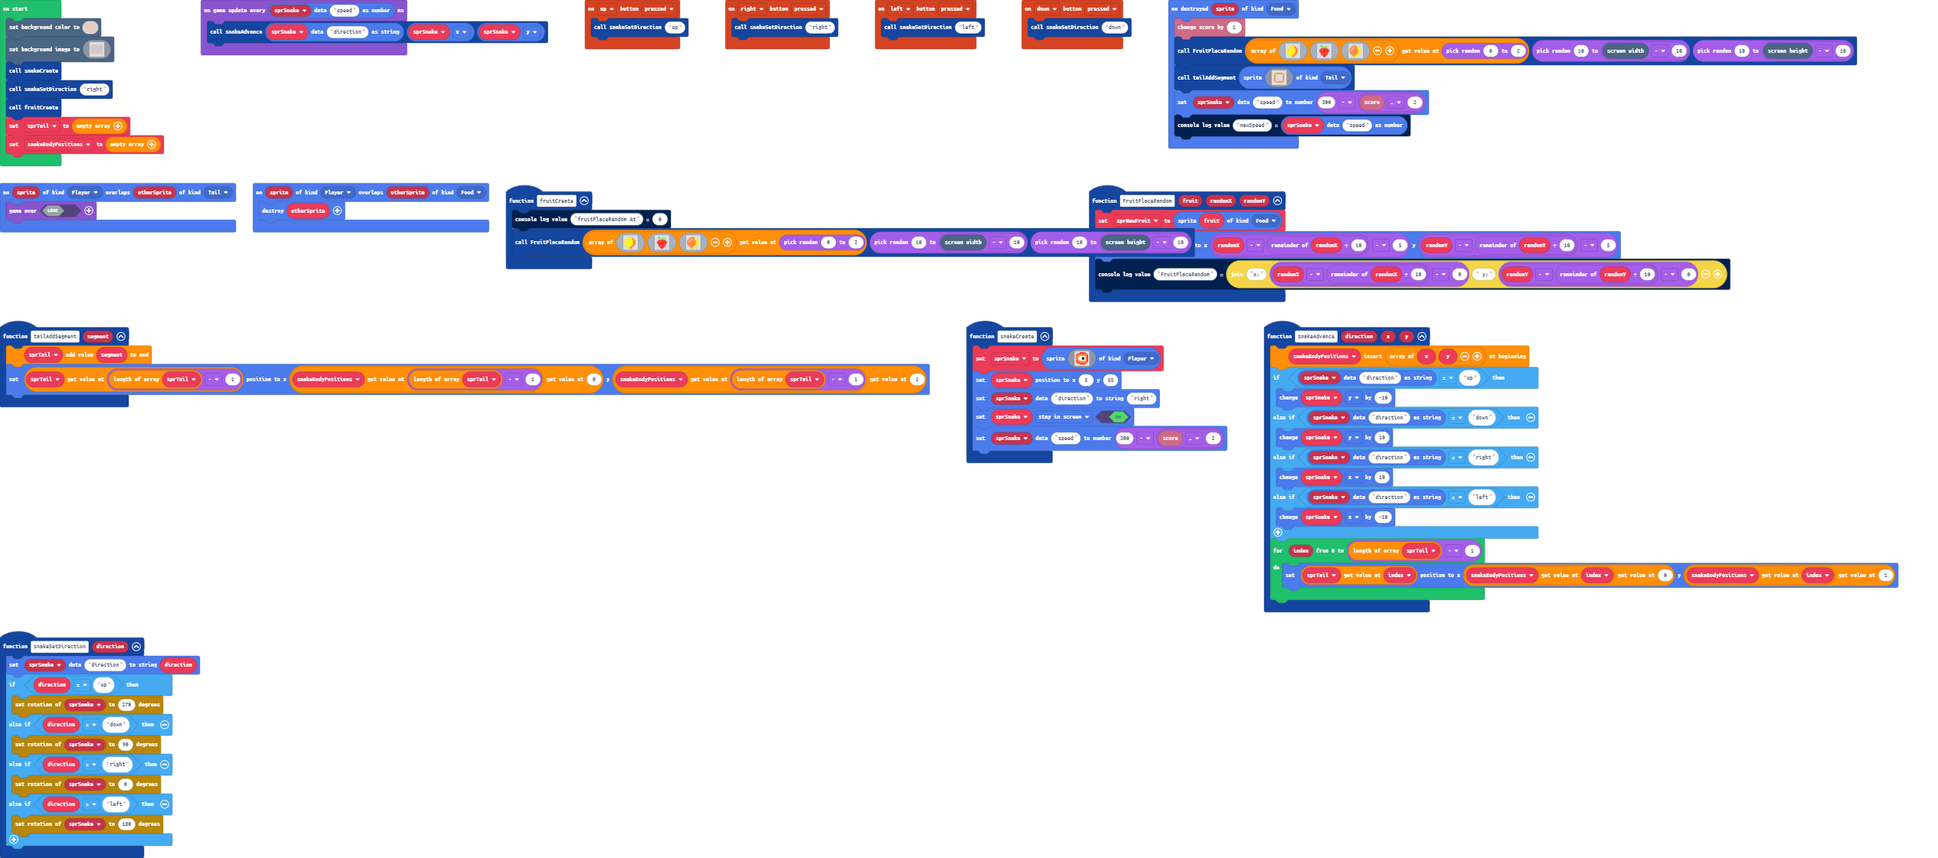
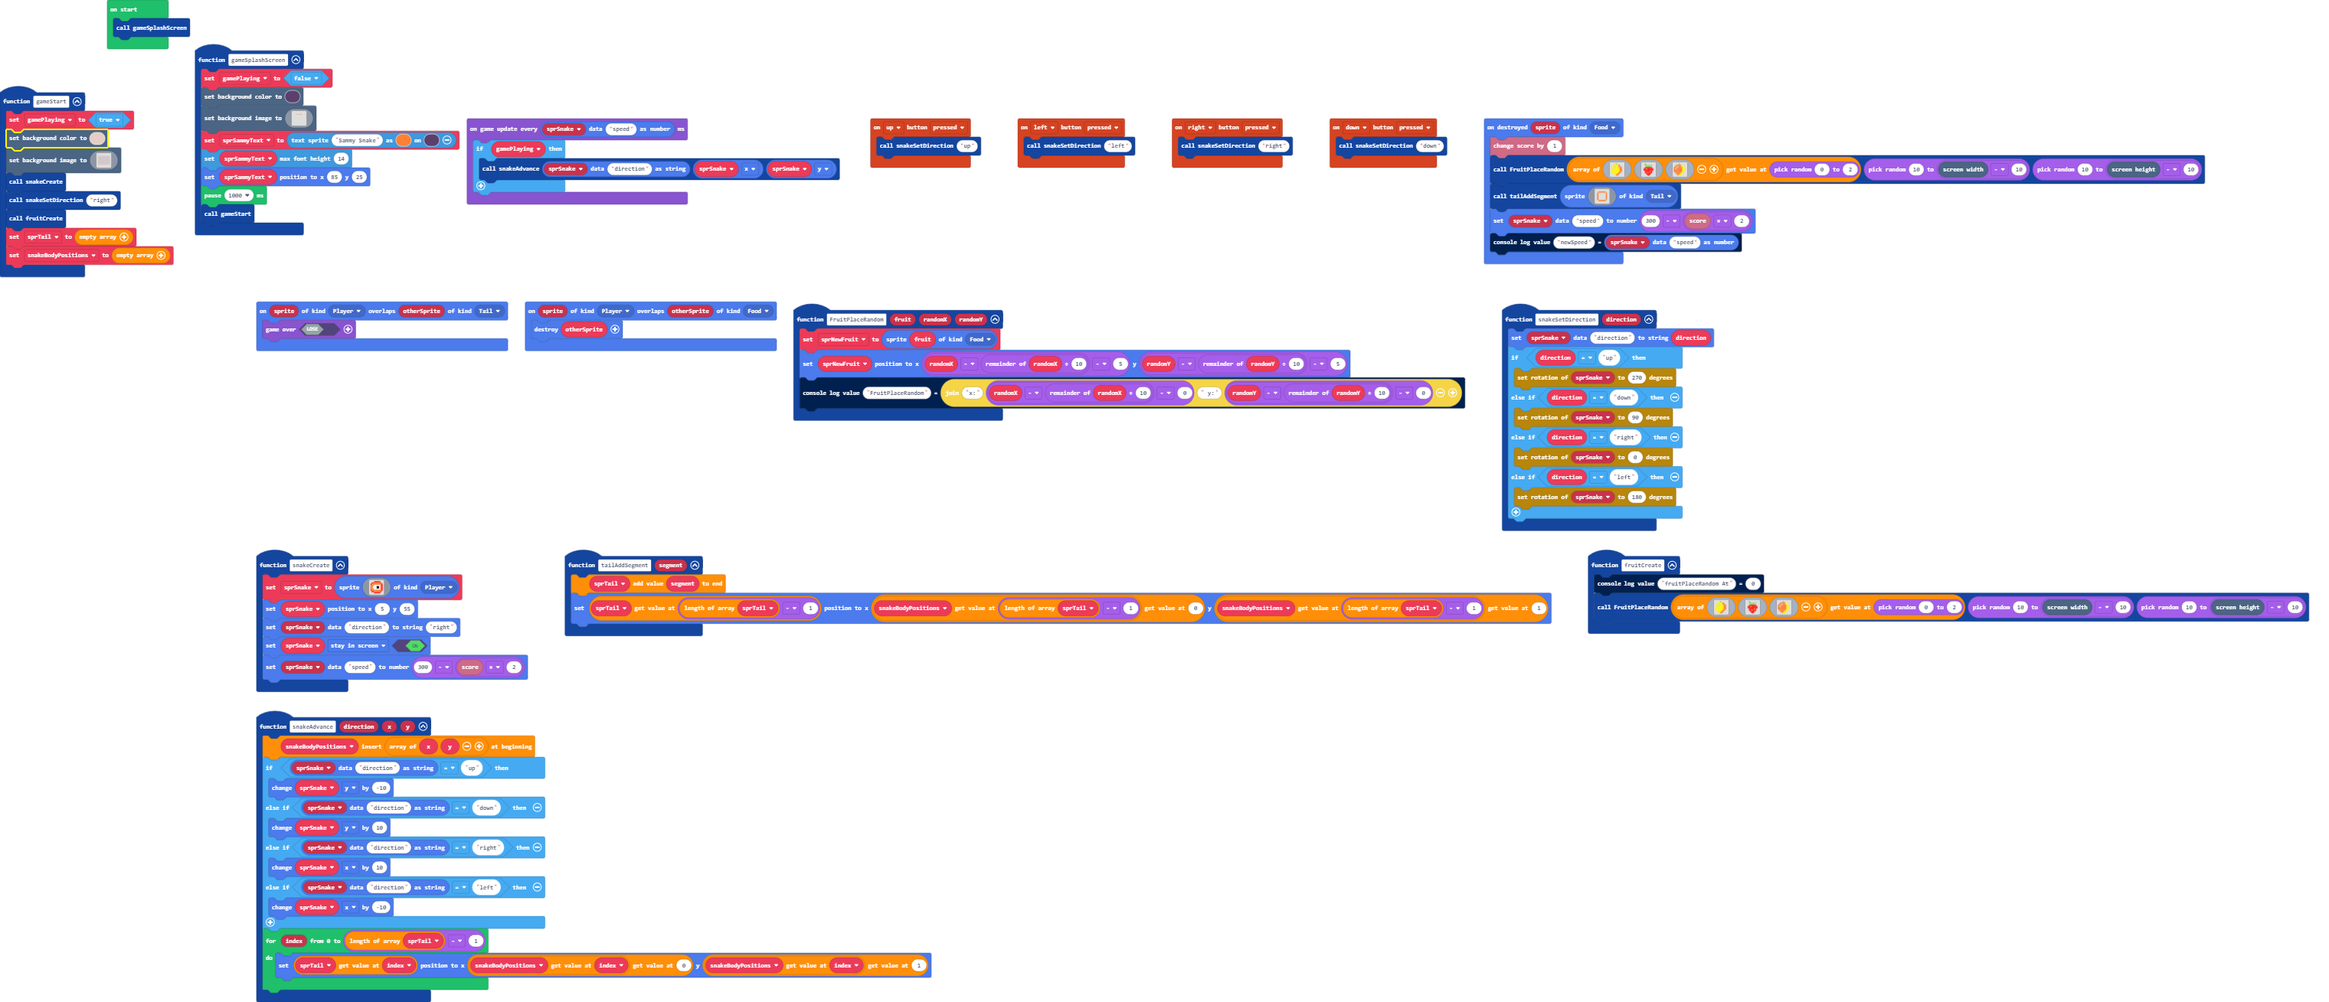
We made the started making the splash screen. =)

diff --git a/main.ts b/main.ts
@@ -45,6 +45,137 @@ function tailAddSegment (segment: Sprite) {
     sprTail.push(segment)
     sprTail[sprTail.length - 1].setPosition(snakeBodyPositions[sprTail.length - 1][0], snakeBodyPositions[sprTail.length - 1][1])
 }
+function gameSplashScreen () {
+    gamePlaying = false
+    scene.setBackgroundColor(12)
+    scene.setBackgroundImage(img`
+        ................................................................................................................................................................
+        ............................................................................................................22222...............................................
+        ..........................................................................................................22444442..............................................
+        ..........................................44444...44444...44444...44444...44444...44444...44444...44444..2444444442.............................................
+        ..........................................44444...44444...44444...44444...44444...44444...44444...44444..4441111142.............................................
+        ..........................................44444...44444...44444...44444...44444...44444...44444...44444..44111ff142.............................................
+        ..........................................44444...44444...44444...44444...44444...44444...44444...44444..44111ff142.............................................
+        ..........................................44444...44444...44444...44444...44444...44444...44444...44444..4441111142.............................................
+        ..........................................44444...44444...44444...44444...44444...44444...44444...44444..2444444442.............................................
+        ..........................................................................................................22444442..............................................
+        ............................................................................................................22222...............................................
+        ................................................................................................................................................................
+        ................................................................................................................................................................
+        ................................................................................................................................................................
+        ................................................................................................................................................................
+        ................................................................................................................................................................
+        ................................................................................................................................................................
+        ................................................................................................................................................................
+        ................................................................................................................................................................
+        ................................................................................................................................................................
+        ................................................................................................................................................................
+        ................................................................................................................................................................
+        ................................................................................................................................................................
+        .........................................................................................................................................3......................
+        ................................................................................................................................................................
+        ................................................................................................................................................................
+        ................................................................................................................................................................
+        ................................................................................................................................................................
+        ................................................................................................................................................................
+        ................................................................................................................................................................
+        ................................................................................................................................................................
+        ................................................................................................................................................................
+        ................................................................................................................................................................
+        ................................................................................................................................................................
+        ................................................................................................................................................................
+        ................................................................................................................................................................
+        ................................................................................................................................................................
+        ................................................................................................................................................................
+        ................................................................................................................................................................
+        ................................................................................................................................................................
+        ................................................................................................................................................................
+        ................................................................................................................................................................
+        ................................................................................................................................................................
+        ................................................................................................................................................................
+        ................................................................................................................................................................
+        ................................................................................................................................................................
+        ................................................................................................................................................................
+        ................................................................................................................................................................
+        ................................................................................................................................................................
+        ................................................................................................................................................................
+        ................................................................................................................................................................
+        ................................................................................................................................................................
+        ................................................................................................................................................................
+        ................................................................................................................................................................
+        ................................................................................................................................................................
+        ................................................................................................................................................................
+        ................................................................................................................................................................
+        ................................................................................................................................................................
+        ................................................................................................................................................................
+        ................................................................................................................................................................
+        ................................................................................................................................................................
+        ................................................................................................................................................................
+        ................................................................................................................................................................
+        ................................................................................................................................................................
+        ................................................................................................................................................................
+        ................................................................................................................................................................
+        ................................................................................................................................................................
+        ................................................................................................................................................................
+        ................................................................................................................................................................
+        ................................................................................................................................................................
+        ................................................................................................................................................................
+        ................................................................................................................................................................
+        ................................................................................................................................................................
+        ................................................................................................................................................................
+        ................................................................................................................................................................
+        ................................................................................................................................................................
+        ................................................................................................................................................................
+        ................................................................................................................................................................
+        ................................................................................................................................................................
+        ................................................................................................................................................................
+        ................................................................................................................................................................
+        ................................................................................................................................................................
+        ................................................................................................................................................................
+        ................................................................................................................................................................
+        ................................................................................................................................................................
+        ................................................................................................................................................................
+        ................................................................................................................................................................
+        ................................................................................................................................................................
+        ................................................................................................................................................................
+        ................................................................................................................................................................
+        ................................................................................................................................................................
+        ................................................................................................................................................................
+        ................................................................................................................................................................
+        ................................................................................................................................................................
+        ................................................................................................................................................................
+        ................................................................................................................................................................
+        ................................................................................................................................................................
+        ................................................................................................................................................................
+        ................................................................................................................................................................
+        ................................................................................................................................................................
+        ................................................................................................................................................................
+        ................................................................................................................................................................
+        ................................................................................................................................................................
+        ................................................................................................................................................................
+        ................................................................................................................................................................
+        ................................................................................................................................................................
+        ................................................................................................................................................................
+        ................................................................................................................................................................
+        ................................................................................................................................................................
+        ................................................................................................................................................................
+        ................................................................................................................................................................
+        ................................................................................................................................................................
+        ................................................................................................................................................................
+        ................................................................................................................................................................
+        ................................................................................................................................................................
+        ................................................................................................................................................................
+        ................................................................................................................................................................
+        ................................................................................................................................................................
+        ................................................................................................................................................................
+        ................................................................................................................................................................
+        `)
+    sprSammyText = textsprite.create("Sammy Snake", 12, 4)
+    sprSammyText.setMaxFontHeight(14)
+    sprSammyText.setPosition(85, 25)
+    pause(1000)
+    gameStart()
+}
 controller.right.onEvent(ControllerButtonEvent.Pressed, function () {
     snakeSetDirection("right")
 })
@@ -73,17 +204,25 @@ function snakeAdvance (direction: string, x: number, y: number) {
         sprTail[index].setPosition(snakeBodyPositions[index][0], snakeBodyPositions[index][1])
     }
 }
-let sprSnake: Sprite = null
-let sprNewFruit: Sprite = null
+function gameStart () {
+    gamePlaying = true
+    scene.setBackgroundColor(13)
+    scene.setBackgroundImage(assets.image`game-grid`)
+    snakeCreate()
+    snakeSetDirection("right")
+    fruitCreate()
+    sprTail = []
+    snakeBodyPositions = []
+}
+let sprSammyText: TextSprite = null
+let gamePlaying = false
 let snakeBodyPositions: number[][] = []
 let sprTail: Sprite[] = []
-scene.setBackgroundColor(13)
-scene.setBackgroundImage(assets.image`game-grid`)
-snakeCreate()
-snakeSetDirection("right")
-fruitCreate()
-sprTail = []
-snakeBodyPositions = []
+let sprSnake: Sprite = null
+let sprNewFruit: Sprite = null
+gameSplashScreen()
 game.onUpdateInterval(sprites.readDataNumber(sprSnake, "speed"), function () {
-    snakeAdvance(sprites.readDataString(sprSnake, "direction"), sprSnake.x, sprSnake.y)
+    if (gamePlaying) {
+        snakeAdvance(sprites.readDataString(sprSnake, "direction"), sprSnake.x, sprSnake.y)
+    }
 })
